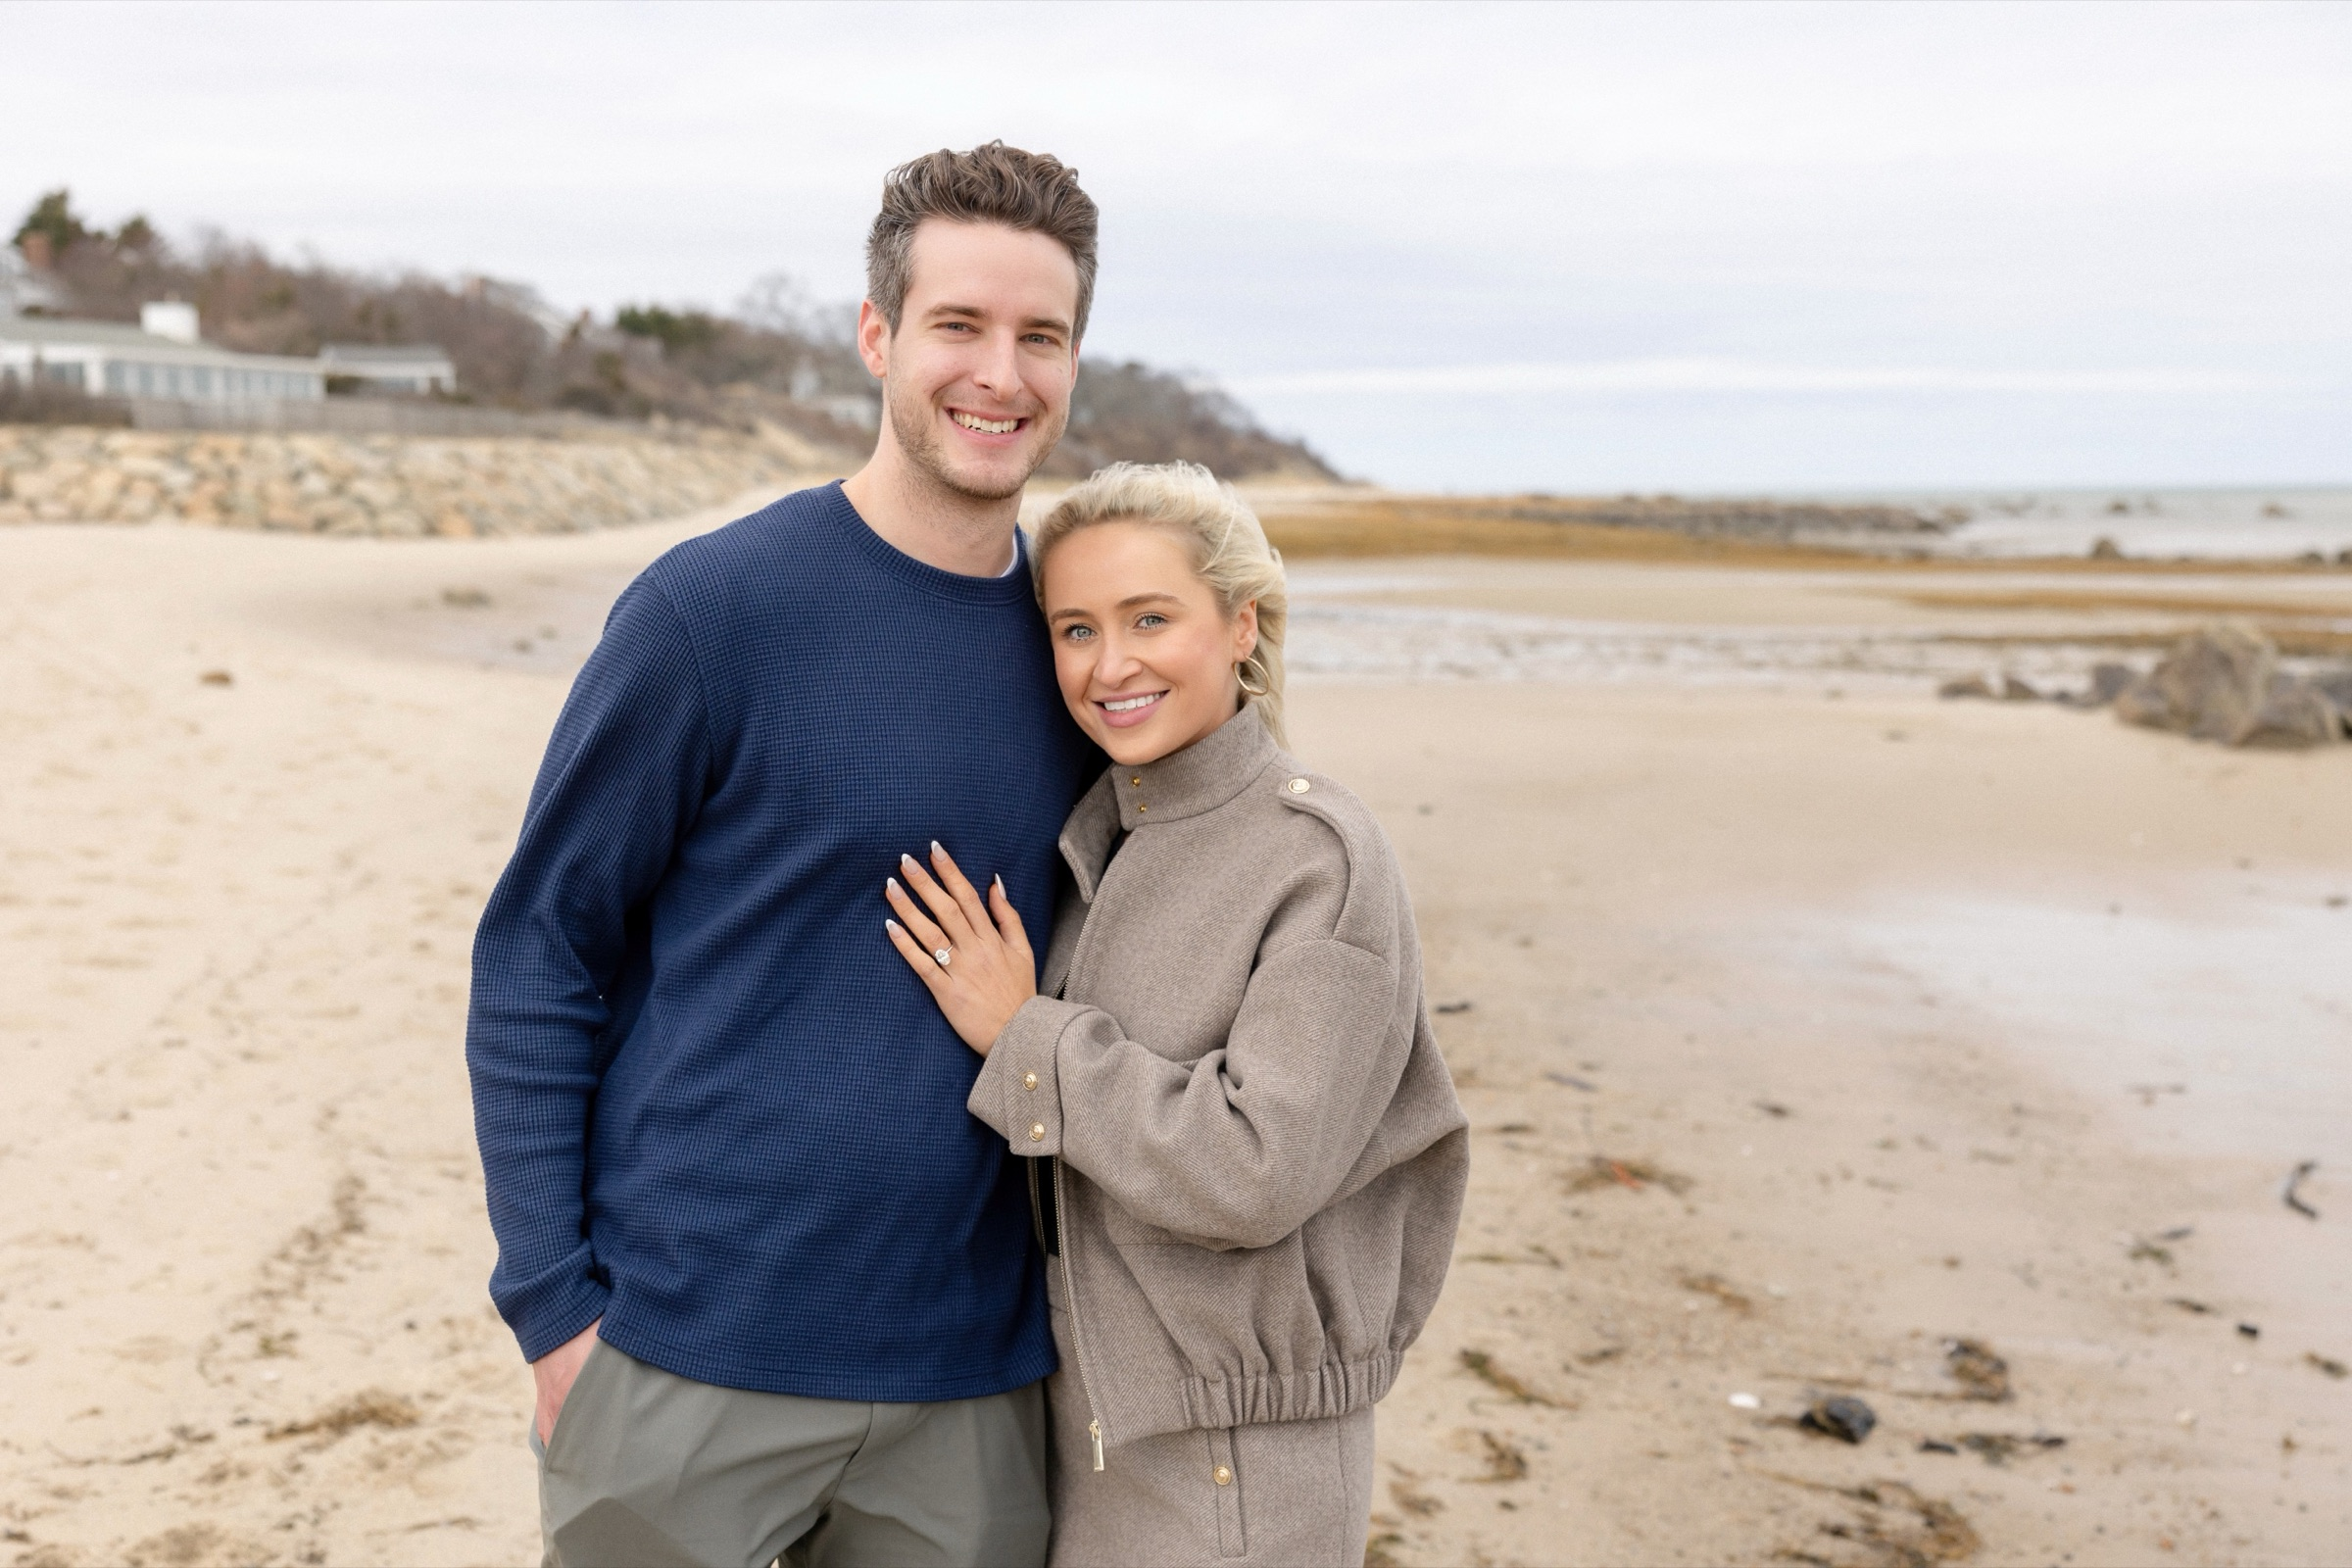
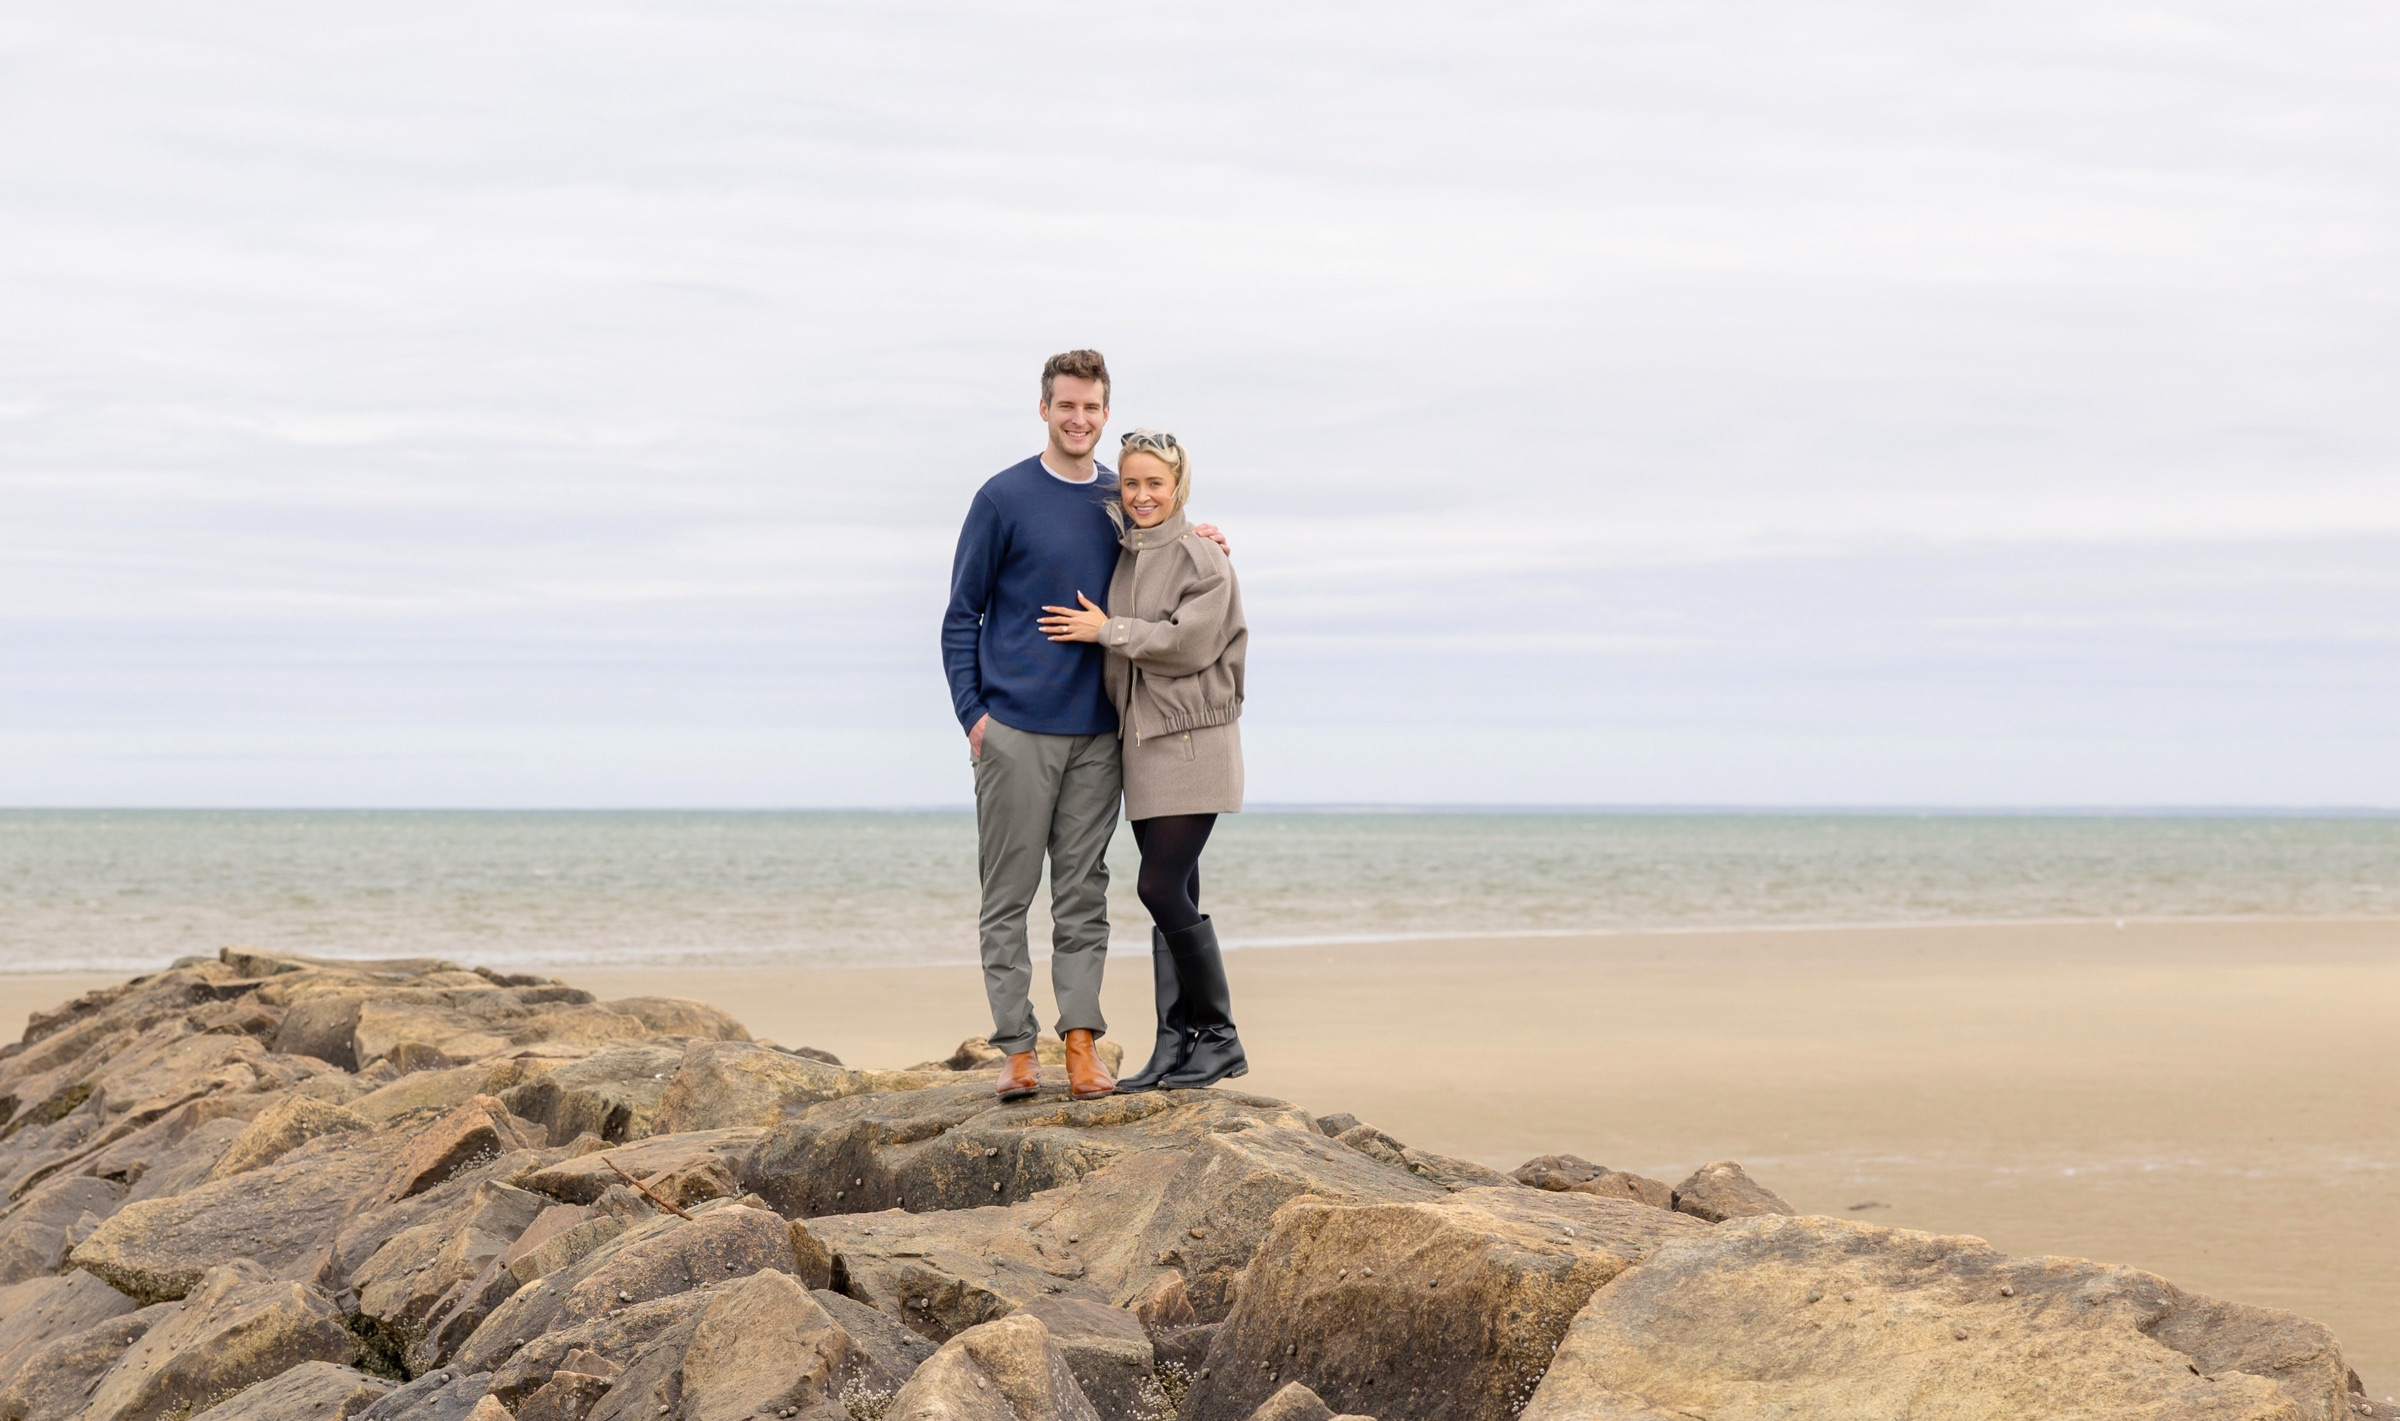
Update photos

diff --git a/index.html b/index.html
@@ -25,7 +25,6 @@ title: Home
 
 <div class="site-content" id="site-content">
 
-{% include motif.html %}
 
 <section id="schedule" class="section">
   <div class="section-inner">
@@ -53,7 +52,6 @@ title: Home
   </div>
 </section>
 
-{% include motif.html %}
 
 <section id="gallery" class="section">
   <div class="section-inner section-inner--wide">
@@ -62,20 +60,38 @@ title: Home
     <div class="rule"></div>
 
     <div class="gallery-grid" id="gallery-grid">
-      <button type="button" class="gallery-item" aria-label="View photo 1 of 5">
+      <button type="button" class="gallery-item" aria-label="View photo 1 of 11">
         <img src="{{ '/assets/gallery/web/PH-006.jpeg' | relative_url }}" alt="Hope and Patrick's engagement" loading="lazy">
       </button>
-      <button type="button" class="gallery-item" aria-label="View photo 2 of 5">
+      <button type="button" class="gallery-item" aria-label="View photo 2 of 11">
         <img src="{{ '/assets/gallery/web/IMG_7490.jpeg' | relative_url }}" alt="Hope and Patrick" loading="lazy">
       </button>
-      <button type="button" class="gallery-item" aria-label="View photo 3 of 5">
+      <button type="button" class="gallery-item" aria-label="View photo 3 of 11">
         <img src="{{ '/assets/gallery/web/IMG_6167.jpeg' | relative_url }}" alt="Hope and Patrick" loading="lazy">
       </button>
-      <button type="button" class="gallery-item" aria-label="View photo 4 of 5">
+      <button type="button" class="gallery-item" aria-label="View photo 4 of 11">
         <img src="{{ '/assets/gallery/web/IMG_6177.jpeg' | relative_url }}" alt="Hope and Patrick" loading="lazy">
       </button>
-      <button type="button" class="gallery-item" aria-label="View photo 5 of 5">
+      <button type="button" class="gallery-item" aria-label="View photo 5 of 11">
         <img src="{{ '/assets/gallery/web/IMG_6045.jpeg' | relative_url }}" alt="Hope and Patrick" loading="lazy">
+      </button>
+      <button type="button" class="gallery-item" aria-label="View photo 6 of 11">
+        <img src="{{ '/assets/gallery/web/IMG_6758.jpeg' | relative_url }}" alt="Hope and Patrick hiking at Glacier National Park" loading="lazy">
+      </button>
+      <button type="button" class="gallery-item" aria-label="View photo 7 of 11">
+        <img src="{{ '/assets/gallery/web/skating.jpeg' | relative_url }}" alt="Hope and Patrick ice skating on Boston Common" loading="lazy">
+      </button>
+      <button type="button" class="gallery-item" aria-label="View photo 8 of 11">
+        <img src="{{ '/assets/gallery/web/FullSizeRender.jpeg' | relative_url }}" alt="Hope and Patrick hiking at Glacier National Park" loading="lazy">
+      </button>
+      <button type="button" class="gallery-item" aria-label="View photo 9 of 11">
+        <img src="{{ '/assets/gallery/web/IMG_7142.jpeg' | relative_url }}" alt="Hope and Patrick at the Milan Cathedral" loading="lazy">
+      </button>
+      <button type="button" class="gallery-item" aria-label="View photo 10 of 11">
+        <img src="{{ '/assets/gallery/web/IMG_8538.jpeg' | relative_url }}" alt="Hope and Patrick at a black-tie gala" loading="lazy">
+      </button>
+      <button type="button" class="gallery-item" aria-label="View photo 11 of 11">
+        <img src="{{ '/assets/gallery/web/IMG_8937.jpeg' | relative_url }}" alt="Hope and Patrick in front of the Eiffel Tower" loading="lazy">
       </button>
     </div>
   </div>
@@ -88,7 +104,6 @@ title: Home
   <button type="button" class="lightbox-nav lightbox-next" id="lightbox-next" aria-label="Next photo">&rarr;</button>
 </div>
 
-{% include motif.html %}
 
 <section id="travel" class="section">
   <div class="section-inner">
@@ -119,7 +134,6 @@ title: Home
   </div>
 </section>
 
-{% include motif.html %}
 
 <section id="faq" class="section">
   <div class="section-inner">